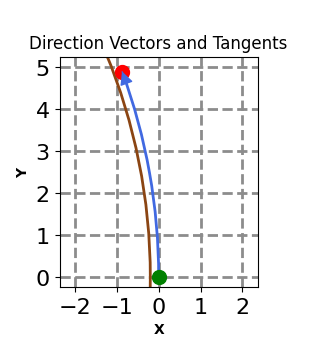
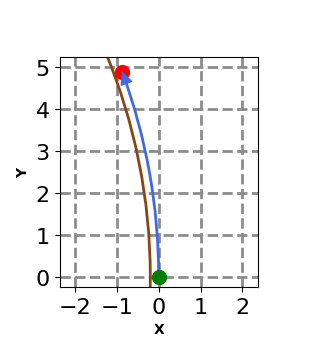
Removed Title From Image

Changed region(s): [[0.0852, 0.087, 0.653, 0.1449], [0.6814, 0.087, 0.9085, 0.1739]]

diff --git a/Assets/eval.py b/Assets/eval.py
@@ -107,7 +107,7 @@ def update(val):
     ax.set_ylabel('Y',fontdict=dict(weight='bold'))
     ax.xaxis.set_tick_params(labelsize=8 * boldness)
     ax.yaxis.set_tick_params(labelsize=8 * boldness)
-    ax.set_title('Direction Vectors and Tangents')
+    # ax.set_title('Direction Vectors and Tangents', fontdict=dict(weight='bold'))
     ax.set_axisbelow(True)
     ax.grid(True, linestyle='--', color='0.55',linewidth=2)
 
